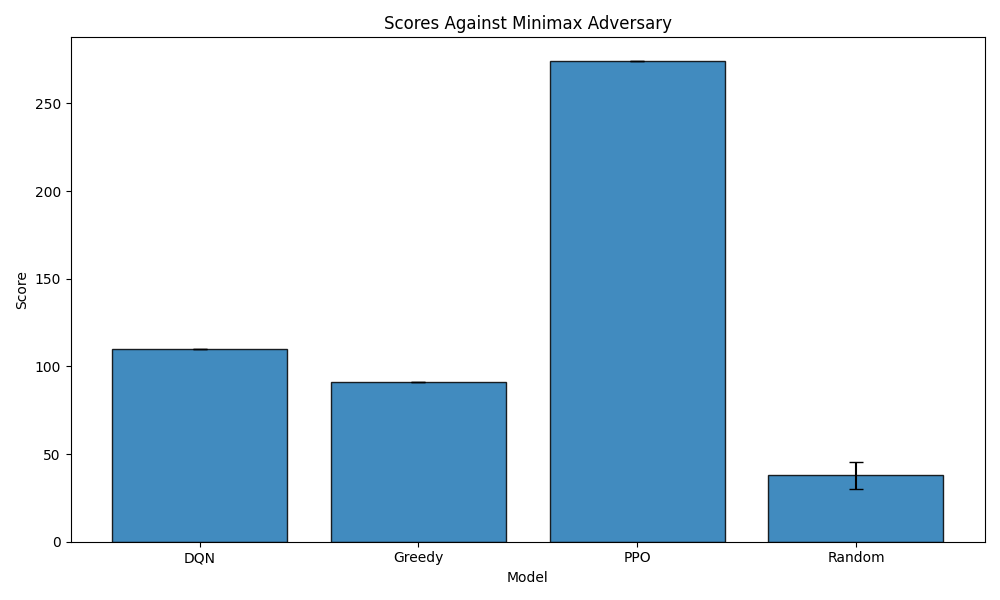
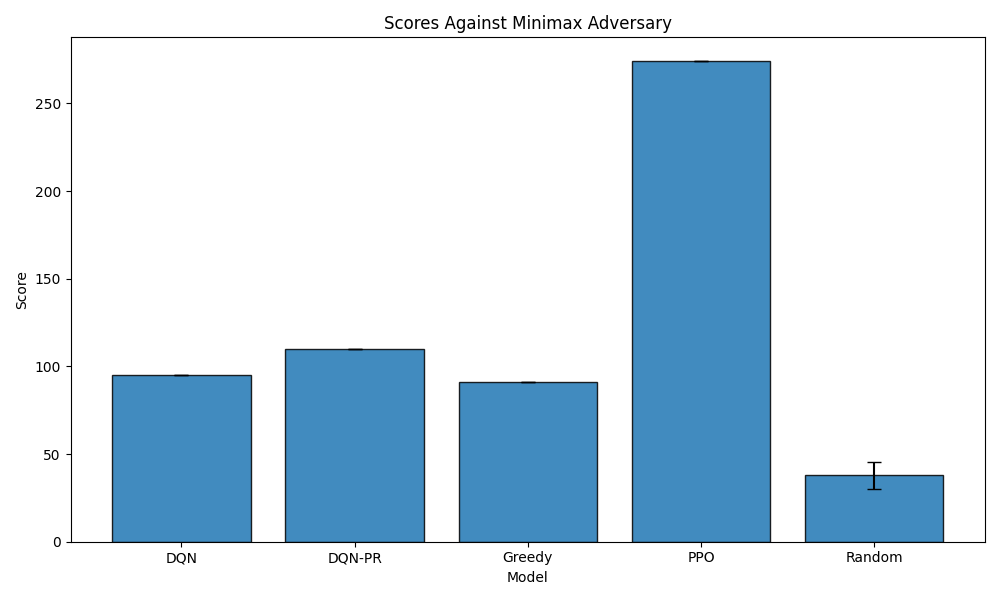
Visualize results

diff --git a/scripts/run_game.py b/scripts/run_game.py
@@ -61,6 +61,8 @@ def evaluate_policy(
     scores = []
     times = []
     for ep in range(episodes):
+        if ep % 100 == 0:
+            print(f"Evaluating policy for {ep} episodes")
         start_time = time.time()
         env = make_env(adversarial=adversarial, seed=seed_offset + ep)
         obs, _ = env.reset(seed=seed_offset + ep)
@@ -91,9 +93,11 @@ def main():
     parser.add_argument("--run-greedy", action="store_true")
     parser.add_argument("--run-ppo", action="store_true")
     parser.add_argument("--run-dqn", action="store_true")
+    parser.add_argument("--run-dqn-nopr", action="store_true")
     args = parser.parse_args()
     ppo_path = "ten_ten_rl/models/score502_1772003097_ppo_tenten.pt"
     dqn_path = "ten_ten_rl/models/dqn_model.pt"
+    dqn_path_nopr = "ten_ten_rl/models/False_best_dqn_model_1038.00.pt"
 
     device = "cuda" if torch.cuda.is_available() else "cpu"
 
@@ -171,6 +175,34 @@ def main():
             np.save(f"dqn_elapsed_{adversarial}.npy", elapsed)
             print(
                 f"dqn: mean={np.mean(scores):.2f} std={np.std(scores):.2f} time={elapsed:.2f}s"
+            )
+
+    if args.run_dqn_nopr:
+        dqn_agent = DQNAgent(n_actions=action_dim).to(device)
+        dqn_agent.load_state_dict(torch.load(dqn_path_nopr, map_location=device))
+        dqn_agent.eval()
+
+        def dqn_greedy_policy(obs, mask):
+            board_t, hand_t = obs_to_torch(obs, device)
+            with torch.no_grad():
+                q = dqn_agent(board_t, hand_t).squeeze(0)
+                mask_t = torch.as_tensor(mask, dtype=torch.bool, device=device)
+                q[~mask_t] = -1e9
+                return int(torch.argmax(q).item())
+
+        for adversarial in [True, False]:
+            if adversarial:
+                scores, elapsed = evaluate_policy(
+                    1, dqn_greedy_policy, adversarial=adversarial
+                )
+            else:
+                scores, elapsed = evaluate_policy(
+                    args.episodes, dqn_greedy_policy, adversarial=adversarial
+                )
+            np.save(f"nopr_dqn_scores_{adversarial}.npy", scores)
+            np.save(f"nopr_dqn_elapsed_{adversarial}.npy", elapsed)
+            print(
+                f"nopr_dqn: mean={np.mean(scores):.2f} std={np.std(scores):.2f} time={elapsed:.2f}s"
             )
 
 

diff --git a/scripts/visualize_results.py b/scripts/visualize_results.py
@@ -6,6 +6,8 @@ import matplotlib.pyplot as plt
 
 
 def get_model_name(name: str) -> str:
+    if "nopr" in name:
+        return "DQN"
     if "greedy" in name:
         name = "Greedy"
     if "random" in name:
@@ -13,8 +15,9 @@ def get_model_name(name: str) -> str:
     if "ppo" in name:
         name = "PPO"
     if "dqn" in name:
-        name = "DQN"
+        name = "DQN-PR"
     return name
+
 
 def summarize_scores(scores: np.ndarray) -> dict:
     return {
@@ -78,6 +81,7 @@ def main():
         scores = np.load(sf)
 
         if args.aggregate_adversarial and "True" in name:
+            name = get_model_name(name)
             adversarial_scores.append(scores)
             adversarial_names.append(name)
             tokens = name.split("_")
